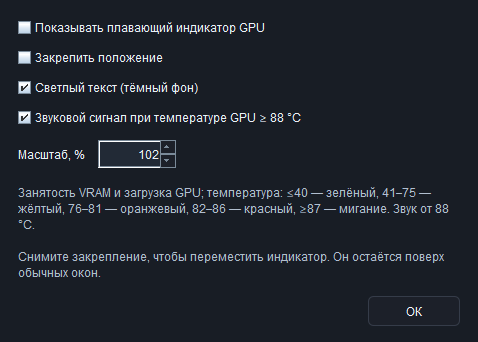
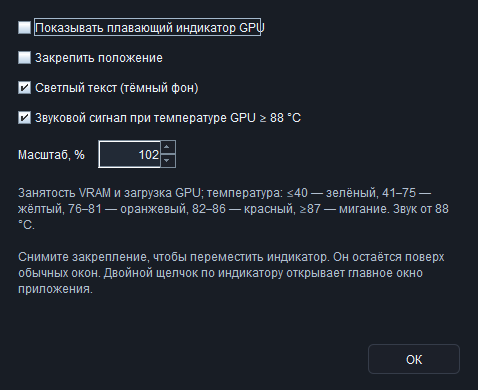
feat: publish VRAM GPU Desk 1.20.1 with overlay double-click

Changed region(s): [[0.0293, 0.0292, 0.9372, 0.8187], [0.7615, 0.8772, 0.9665, 0.9649]]

diff --git a/README.hi.md b/README.hi.md
@@ -22,9 +22,13 @@
 - स्वतंत्र सेटिंग वाले दो NVIDIA पैनल; दूसरे GPU का नियंत्रण प्रयोगात्मक है।
 - नियंत्रण खोने की चेतावनी और मैन्युअल पुनः प्रयास; नई सेटिंग में बहाली ON, पहले से सहेजा गया OFF बरकरार।
 
-[Windows इंस्टॉलर डाउनलोड करें](downloads/VRAM-GPU-Desk-1.20-Setup-x64.exe) · [इंस्टॉलर ZIP](downloads/VRAM-GPU-Desk-1.20-Installer.zip)
+[Windows इंस्टॉलर डाउनलोड करें](downloads/VRAM-GPU-Desk-1.20.1-Setup-x64.exe) · [इंस्टॉलर ZIP](downloads/VRAM-GPU-Desk-1.20.1-Installer.zip)
 
 ![VRAM GPU Desk — Graphite थीम](images/dashboard-graphite.png)
+
+## 1.20.1
+
+मुख्य विंडो खोलने के लिए ओवरले पर डबल-क्लिक करें।
 
 ## 1.20 — GPU फ्लोटिंग मॉनिटर
 

diff --git a/README.ar.md b/README.ar.md
@@ -22,9 +22,13 @@
 - لوحتا NVIDIA بإعدادات مستقلة؛ التحكم في GPU الثانية تجريبي.
 - تحذير عند فقدان التحكم وإعادة محاولة يدوية؛ الاستعادة مفعّلة للإعدادات الجديدة مع حفظ اختيار التعطيل السابق.
 
-[تنزيل برنامج التثبيت](downloads/VRAM-GPU-Desk-1.20-Setup-x64.exe) · [حزمة ZIP للتثبيت](downloads/VRAM-GPU-Desk-1.20-Installer.zip)
+[تنزيل برنامج التثبيت](downloads/VRAM-GPU-Desk-1.20.1-Setup-x64.exe) · [حزمة ZIP للتثبيت](downloads/VRAM-GPU-Desk-1.20.1-Installer.zip)
 
 ![VRAM GPU Desk — السمة الغرافيتية](images/dashboard-graphite.png)
+
+## 1.20.1
+
+انقر نقرًا مزدوجًا على المؤشر لفتح النافذة الرئيسية.
 
 ## 1.20 — مؤشر GPU العائم
 

diff --git a/README.ja.md b/README.ja.md
@@ -22,9 +22,13 @@
 - 独立設定を持つ2つの NVIDIA パネル。2基目の GPU 制御は実験的機能です。
 - 制御喪失の警告と手動再試行。新しい設定では復旧が有効になり、明示的に保存した無効設定は維持されます。
 
-[Windows インストーラー](downloads/VRAM-GPU-Desk-1.20-Setup-x64.exe) · [インストーラー ZIP](downloads/VRAM-GPU-Desk-1.20-Installer.zip)
+[Windows インストーラー](downloads/VRAM-GPU-Desk-1.20.1-Setup-x64.exe) · [インストーラー ZIP](downloads/VRAM-GPU-Desk-1.20.1-Installer.zip)
 
 ![VRAM GPU Desk — グラファイトテーマ](images/dashboard-graphite.png)
+
+## 1.20.1
+
+オーバーレイをダブルクリックするとメイン画面が開きます。
 
 ## 1.20 — GPU フローティングモニター
 

diff --git a/README.fr.md b/README.fr.md
@@ -22,9 +22,13 @@
 - Deux panneaux NVIDIA avec des réglages indépendants ; le contrôle du second GPU est expérimental.
 - Avertissement de perte de contrôle et nouvelle tentative manuelle ; récupération ACTIVÉE pour les nouveaux réglages, arrêt enregistré respecté.
 
-Version **1.20** · [Installation Windows](downloads/VRAM-GPU-Desk-1.20-Setup-x64.exe) · [ZIP d’installation](downloads/VRAM-GPU-Desk-1.20-Installer.zip)
+Version **1.20.1** · [Installation Windows](downloads/VRAM-GPU-Desk-1.20.1-Setup-x64.exe) · [ZIP d’installation](downloads/VRAM-GPU-Desk-1.20.1-Installer.zip)
 
 ![VRAM GPU Desk — thème graphite](images/dashboard-graphite.png)
+
+## 1.20.1
+
+Double-cliquez sur l’indicateur pour ouvrir la fenêtre principale.
 
 ## 1.20 — Moniteur GPU flottant
 

diff --git a/README.vi.md b/README.vi.md
@@ -22,9 +22,13 @@
 - Hai bảng NVIDIA với thiết lập độc lập; điều khiển GPU thứ hai là tính năng thử nghiệm.
 - Cảnh báo mất điều khiển và thử lại thủ công; khôi phục BẬT cho cài đặt mới, giữ lựa chọn TẮT đã lưu.
 
-Phiên bản **1.20** · [Bộ cài Windows](downloads/VRAM-GPU-Desk-1.20-Setup-x64.exe) · [ZIP bộ cài](downloads/VRAM-GPU-Desk-1.20-Installer.zip)
+Phiên bản **1.20.1** · [Bộ cài Windows](downloads/VRAM-GPU-Desk-1.20.1-Setup-x64.exe) · [ZIP bộ cài](downloads/VRAM-GPU-Desk-1.20.1-Installer.zip)
 
 ![VRAM GPU Desk — giao diện graphite](images/dashboard-graphite.png)
+
+## 1.20.1
+
+Nhấp đúp vào lớp phủ để mở cửa sổ chính.
 
 ## 1.20 — Bộ theo dõi GPU nổi
 

diff --git a/README.ko.md b/README.ko.md
@@ -22,9 +22,13 @@
 - 독립 설정을 갖춘 NVIDIA 패널 두 개; 두 번째 GPU 제어는 실험 기능입니다.
 - 제어 손실 경고와 수동 재시도; 새 설정은 복구가 켜지며 명시적으로 저장한 끄기는 유지됩니다.
 
-[Windows 설치 프로그램 다운로드](downloads/VRAM-GPU-Desk-1.20-Setup-x64.exe) · [설치 프로그램 ZIP](downloads/VRAM-GPU-Desk-1.20-Installer.zip)
+[Windows 설치 프로그램 다운로드](downloads/VRAM-GPU-Desk-1.20.1-Setup-x64.exe) · [설치 프로그램 ZIP](downloads/VRAM-GPU-Desk-1.20.1-Installer.zip)
 
 ![VRAM GPU Desk — 그래파이트 테마](images/dashboard-graphite.png)
+
+## 1.20.1
+
+오버레이를 두 번 클릭하면 기본 창이 열립니다.
 
 ## 1.20 — GPU 플로팅 모니터
 

diff --git a/README.it.md b/README.it.md
@@ -22,9 +22,13 @@
 - Due pannelli NVIDIA con impostazioni indipendenti; il controllo della seconda GPU è sperimentale.
 - Avviso di perdita del controllo e nuovo tentativo manuale; ripristino ATTIVO per le nuove impostazioni, disattivazione salvata rispettata.
 
-Versione **1.20** · [Installer Windows](downloads/VRAM-GPU-Desk-1.20-Setup-x64.exe) · [ZIP di installazione](downloads/VRAM-GPU-Desk-1.20-Installer.zip)
+Versione **1.20.1** · [Installer Windows](downloads/VRAM-GPU-Desk-1.20.1-Setup-x64.exe) · [ZIP di installazione](downloads/VRAM-GPU-Desk-1.20.1-Installer.zip)
 
 ![VRAM GPU Desk — tema grafite](images/dashboard-graphite.png)
+
+## 1.20.1
+
+Fai doppio clic sull’indicatore per aprire la finestra principale.
 
 ## 1.20 — Monitor GPU mobile
 

diff --git a/README.de.md b/README.de.md
@@ -22,9 +22,13 @@
 - Zwei NVIDIA-Bereiche mit unabhängigen Einstellungen; die Steuerung der zweiten GPU ist experimentell.
 - Warnung bei Steuerungsverlust und manuelle Wiederholung; Wiederherstellung ist für neue Einstellungen EIN, gespeichertes AUS bleibt erhalten.
 
-Version **1.20** · [Windows-Installer](downloads/VRAM-GPU-Desk-1.20-Setup-x64.exe) · [Installations-ZIP](downloads/VRAM-GPU-Desk-1.20-Installer.zip)
+Version **1.20.1** · [Windows-Installer](downloads/VRAM-GPU-Desk-1.20.1-Setup-x64.exe) · [Installations-ZIP](downloads/VRAM-GPU-Desk-1.20.1-Installer.zip)
 
 ![VRAM GPU Desk — Graphitdesign](images/dashboard-graphite.png)
+
+## 1.20.1
+
+Ein Doppelklick auf die Anzeige öffnet das Hauptfenster.
 
 ## 1.20 — Schwebende GPU-Anzeige
 

diff --git a/README.es.md b/README.es.md
@@ -22,9 +22,13 @@
 - Dos paneles NVIDIA con ajustes independientes; el control de la segunda GPU es experimental.
 - Aviso de pérdida de control y reintento manual; recuperación ACTIVADA para ajustes nuevos, respetando la desactivación guardada.
 
-Versión **1.20** · [Instalador Windows](downloads/VRAM-GPU-Desk-1.20-Setup-x64.exe) · [ZIP del instalador](downloads/VRAM-GPU-Desk-1.20-Installer.zip)
+Versión **1.20.1** · [Instalador Windows](downloads/VRAM-GPU-Desk-1.20.1-Setup-x64.exe) · [ZIP del instalador](downloads/VRAM-GPU-Desk-1.20.1-Installer.zip)
 
 ![VRAM GPU Desk — tema grafito](images/dashboard-graphite.png)
+
+## 1.20.1
+
+Haga doble clic en el indicador para abrir la ventana principal.
 
 ## 1.20 — Monitor flotante de GPU
 

diff --git a/README.md b/README.md
@@ -22,9 +22,13 @@
 - Two NVIDIA GPU panels with independent settings; second GPU control is experimental.
 - Control-loss warning and manual retry; forced recovery is ON for new settings, with saved OFF choices preserved.
 
-Version **1.20** · [Download Windows installer](downloads/VRAM-GPU-Desk-1.20-Setup-x64.exe) · [Installer ZIP](downloads/VRAM-GPU-Desk-1.20-Installer.zip)
+Version **1.20.1** · [Download Windows installer](downloads/VRAM-GPU-Desk-1.20.1-Setup-x64.exe) · [Installer ZIP](downloads/VRAM-GPU-Desk-1.20.1-Installer.zip)
 
 ![VRAM GPU Desk — graphite theme](images/dashboard-graphite.png)
+
+## 1.20.1
+
+Double-click an overlay to open the main application.
 
 ## 1.20 — Floating GPU monitor
 

diff --git a/README.zh.md b/README.zh.md
@@ -22,9 +22,13 @@
 - 两个独立设置的 NVIDIA 面板；第二块 GPU 的控制功能为实验性功能。
 - 控制丢失警告与手动重试；新设置默认开启恢复，保留已明确保存的关闭选择。
 
-[下载 Windows 安装程序](downloads/VRAM-GPU-Desk-1.20-Setup-x64.exe) · [安装程序 ZIP 包](downloads/VRAM-GPU-Desk-1.20-Installer.zip)
+[下载 Windows 安装程序](downloads/VRAM-GPU-Desk-1.20.1-Setup-x64.exe) · [安装程序 ZIP 包](downloads/VRAM-GPU-Desk-1.20.1-Installer.zip)
 
 ![VRAM GPU Desk — 石墨深色主题](images/dashboard-graphite.png)
+
+## 1.20.1
+
+双击悬浮指示器可打开应用主窗口。
 
 ## 1.20 — GPU 悬浮监视器
 
